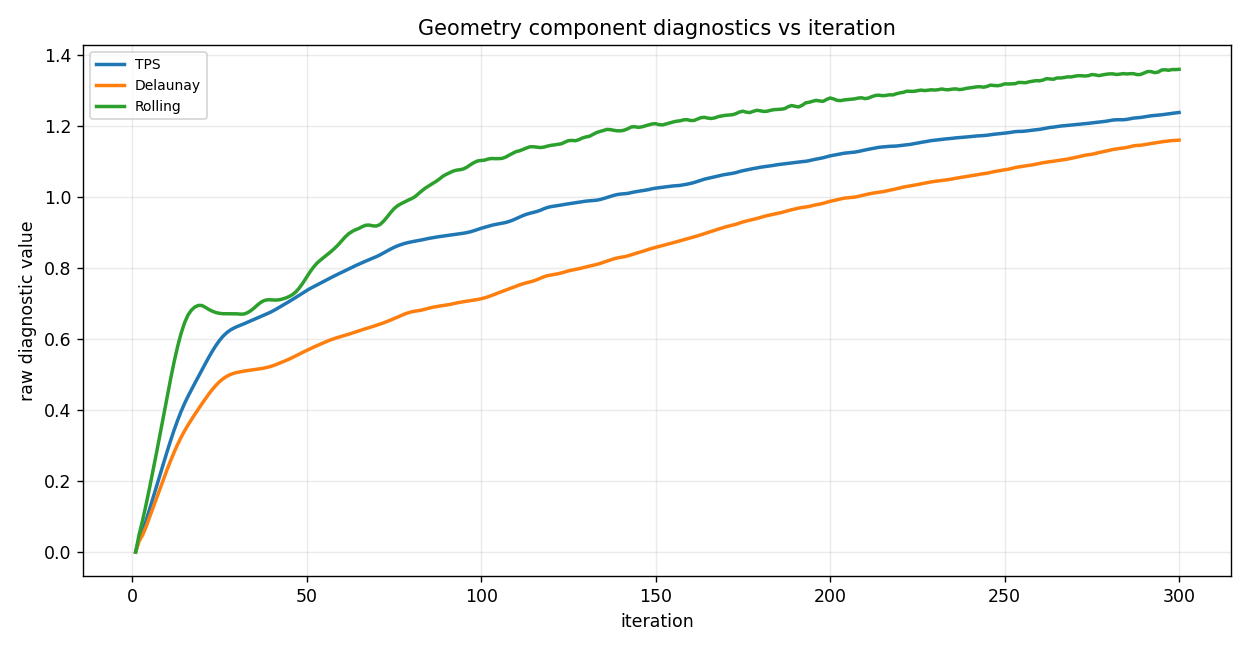
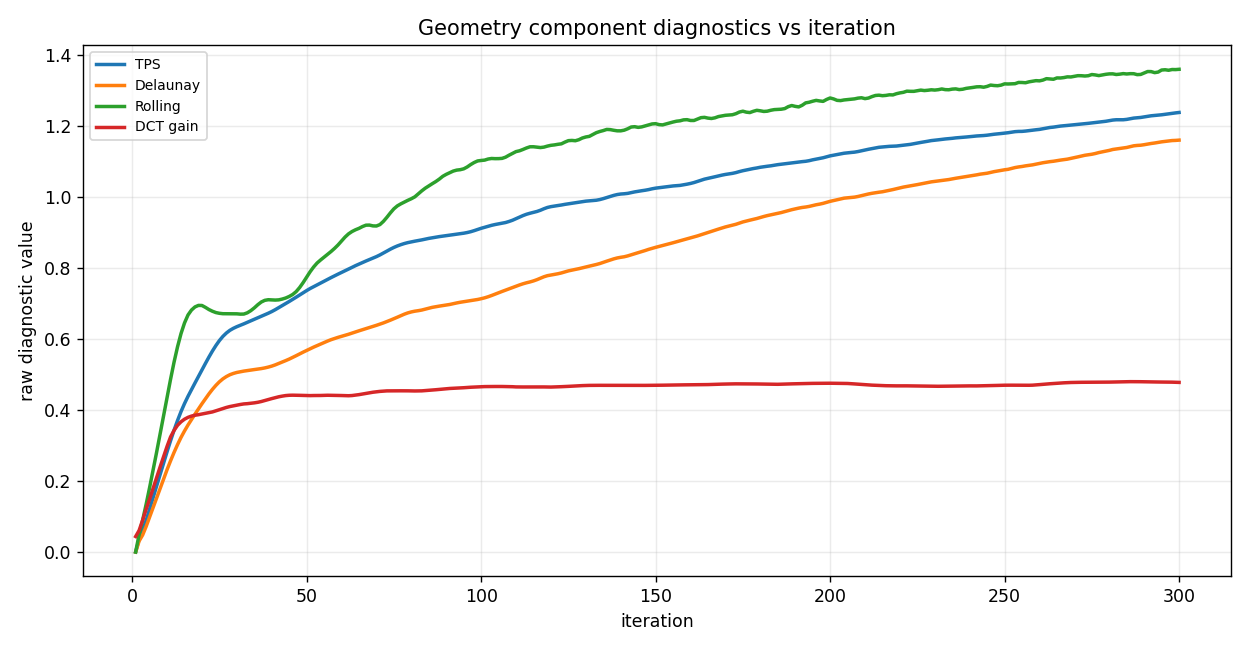
Chnage report title/description

diff --git a/outputs/reports/arcface_identity_dct_image/report.html b/outputs/reports/arcface_identity_dct_image/report.html
@@ -18,7 +18,7 @@
     .path { font-family:Consolas, monospace; font-size:12px; word-break:break-all; }
     
 </style></head><body><main>
-<h1>FACE: ArcFace White-box Spatial + Frequency Identity Optimization</h1><p class='subtitle'>Frozen iResNet-100 identity-distance results with image-DCT perturbation and downstream InstructPix2Pix evaluation</p><p class='small'>Author: Parth Katiyar</p>
+<h1>FACE: ArcFace White-box Geometric Identity Optimization</h1><p class='subtitle'>Frozen iResNet-100 identity-distance results with downstream InstructPix2Pix evaluation</p><p class='small'>Author: Parth Katiyar</p>
 <div class='card'><p>FACE optimizes <code>Z = 1 - cosine_similarity</code> between original and perturbed full-image ArcFace iResNet-100 embeddings. The loss is exactly <code>loss = -Z</code>. ArcFace weights are frozen; only perturbation parameters are optimized. TPS, Delaunay, and rolling are coordinate perturbations. DCT is a blockwise image-frequency coefficient perturbation, not a flow field.</p></div>
 <h2>1. Run matrix</h2><p>Four prompt-labeled cases are retained for compatibility. The ArcFace objective is not prompt-conditioned; prompts are used only for downstream InstructPix2Pix edit evaluation.</p>
 <div class='table-wrap'><table><thead><tr>
@@ -108,9 +108,4 @@
 <figure><figcaption>PSNR to original vs iteration</figcaption><a href='graphs/psnr_vs_iteration.png'><img src='graphs/psnr_vs_iteration.png'></a></figure>
 <figure><figcaption>SSIM to original vs iteration</figcaption><a href='graphs/ssim_vs_iteration.png'><img src='graphs/ssim_vs_iteration.png'></a></figure>
 <figure><figcaption>Geometry component diagnostics vs iteration</figcaption><a href='graphs/geometry_component_diagnostics_vs_iteration.png'><img src='graphs/geometry_component_diagnostics_vs_iteration.png'></a></figure>
-<figure><figcaption>DCT gain mean-absolute value vs iteration</figcaption><a href='graphs/dct_gain_mean_abs_vs_iteration.png'><img src='graphs/dct_gain_mean_abs_vs_iteration.png'></a></figure>
-<figure><figcaption>DCT coefficient-energy change vs iteration</figcaption><a href='graphs/dct_relative_energy_change_vs_iteration.png'><img src='graphs/dct_relative_energy_change_vs_iteration.png'></a></figure>
-<figure><figcaption>DCT spatial-delta MSE vs iteration</figcaption><a href='graphs/dct_spatial_delta_mse_vs_iteration.png'><img src='graphs/dct_spatial_delta_mse_vs_iteration.png'></a></figure>
-<figure><figcaption>DCT low/mid/high frequency energy vs iteration</figcaption><a href='graphs/dct_frequency_band_energy_vs_iteration.png'><img src='graphs/dct_frequency_band_energy_vs_iteration.png'></a></figure>
-<figure><figcaption>Final Z vs DCT coefficient-energy change</figcaption><a href='graphs/z_vs_dct_relative_energy_change.png'><img src='graphs/z_vs_dct_relative_energy_change.png'></a></figure>
 </div></main></body></html>

diff --git a/face/scripts/summarize_runs.py b/face/scripts/summarize_runs.py
@@ -18,8 +18,8 @@ import matplotlib.pyplot as plt
 from PIL import Image, ImageChops, ImageEnhance, ImageOps
 
 
-TITLE = "FACE: ArcFace White-box Spatial + Frequency Identity Optimization"
-SUBTITLE = "Frozen iResNet-100 identity-distance results with image-DCT perturbation and downstream InstructPix2Pix evaluation"
+TITLE = "FACE: ArcFace White-box Geometric Identity Optimization"
+SUBTITLE = "Frozen iResNet-100 identity-distance results with downstream InstructPix2Pix evaluation"
 AUTHOR = "Parth Katiyar"
 
 
@@ -591,7 +591,7 @@ def make_pdf(data: dict[str, Any], output_root: Path, pdf_path: Path, compress_i
     )
     p(
         "TPS, Delaunay, and rolling are coordinate perturbations. DCT is a blockwise "
-        "image-frequency coefficient perturbation and is not included in spatial flow visualizations."
+        "image-frequency coefficient perturbation"
     )
     p("Run matrix and final values", "Heading2")
     add_table(data["per_run_rows"], per_cols, font_size=5)

diff --git a/outputs/reports/arcface_identity_dct_image/report.md b/outputs/reports/arcface_identity_dct_image/report.md
@@ -1,6 +1,6 @@
-# FACE: ArcFace White-box Spatial + Frequency Identity Optimization
+# FACE: ArcFace White-box Geometric Identity Optimization
 
-Frozen iResNet-100 identity-distance results with image-DCT perturbation and downstream InstructPix2Pix evaluation
+Frozen iResNet-100 identity-distance results with downstream InstructPix2Pix evaluation
 
 FACE optimizes `Z = 1 - cosine_similarity` with `loss = -Z` against frozen ArcFace iResNet-100. DCT is reported as an image-frequency coefficient perturbation, not a spatial flow.
 
@@ -43,23 +43,3 @@ FACE optimizes `Z = 1 - cosine_similarity` with `loss = -Z` against frozen ArcFa
 ### Geometry component diagnostics vs iteration
 
 ![Geometry component diagnostics vs iteration](graphs/geometry_component_diagnostics_vs_iteration.png)
-
-### DCT gain mean-absolute value vs iteration
-
-![DCT gain mean-absolute value vs iteration](graphs/dct_gain_mean_abs_vs_iteration.png)
-
-### DCT coefficient-energy change vs iteration
-
-![DCT coefficient-energy change vs iteration](graphs/dct_relative_energy_change_vs_iteration.png)
-
-### DCT spatial-delta MSE vs iteration
-
-![DCT spatial-delta MSE vs iteration](graphs/dct_spatial_delta_mse_vs_iteration.png)
-
-### DCT low/mid/high frequency energy vs iteration
-
-![DCT low/mid/high frequency energy vs iteration](graphs/dct_frequency_band_energy_vs_iteration.png)
-
-### Final Z vs DCT coefficient-energy change
-
-![Final Z vs DCT coefficient-energy change](graphs/z_vs_dct_relative_energy_change.png)